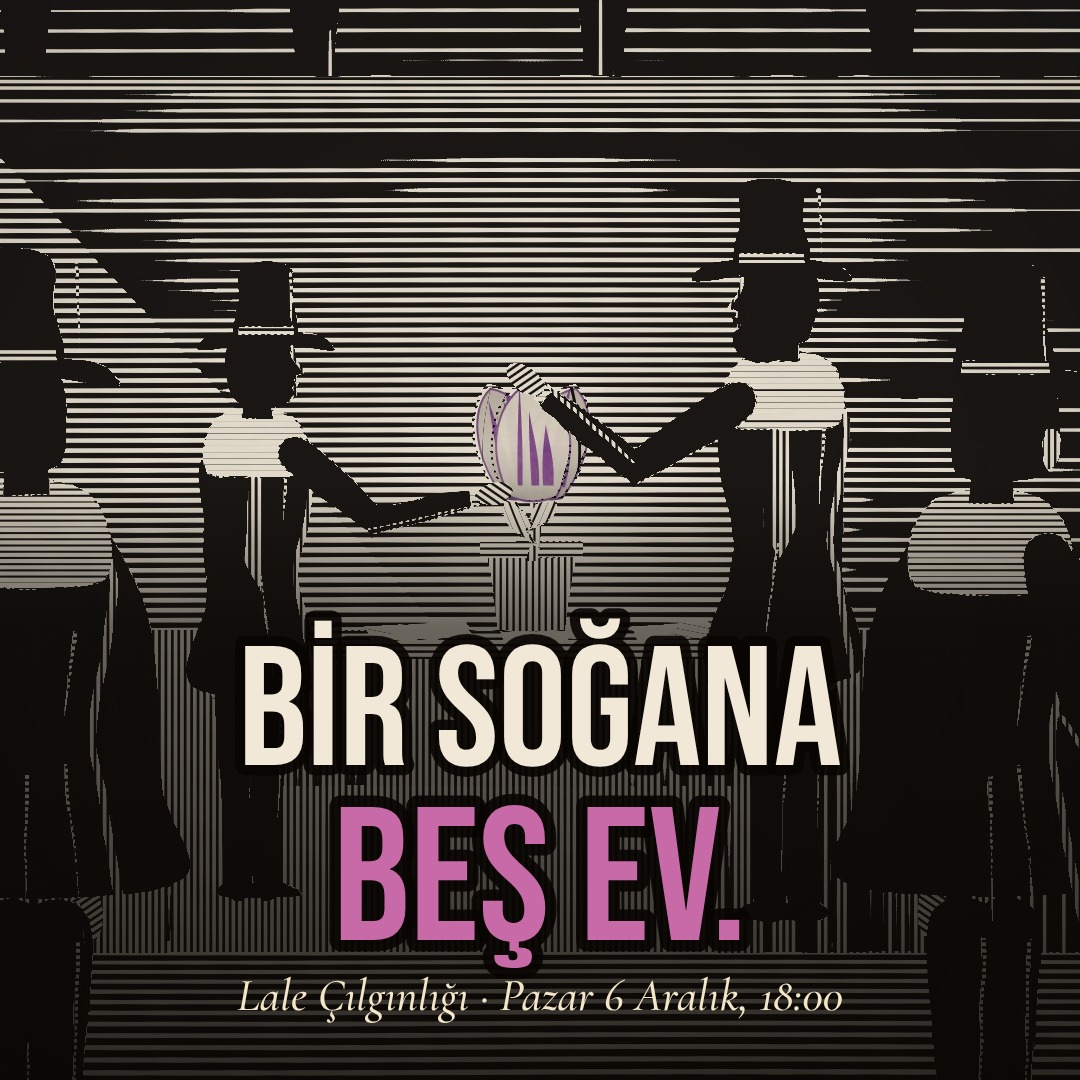
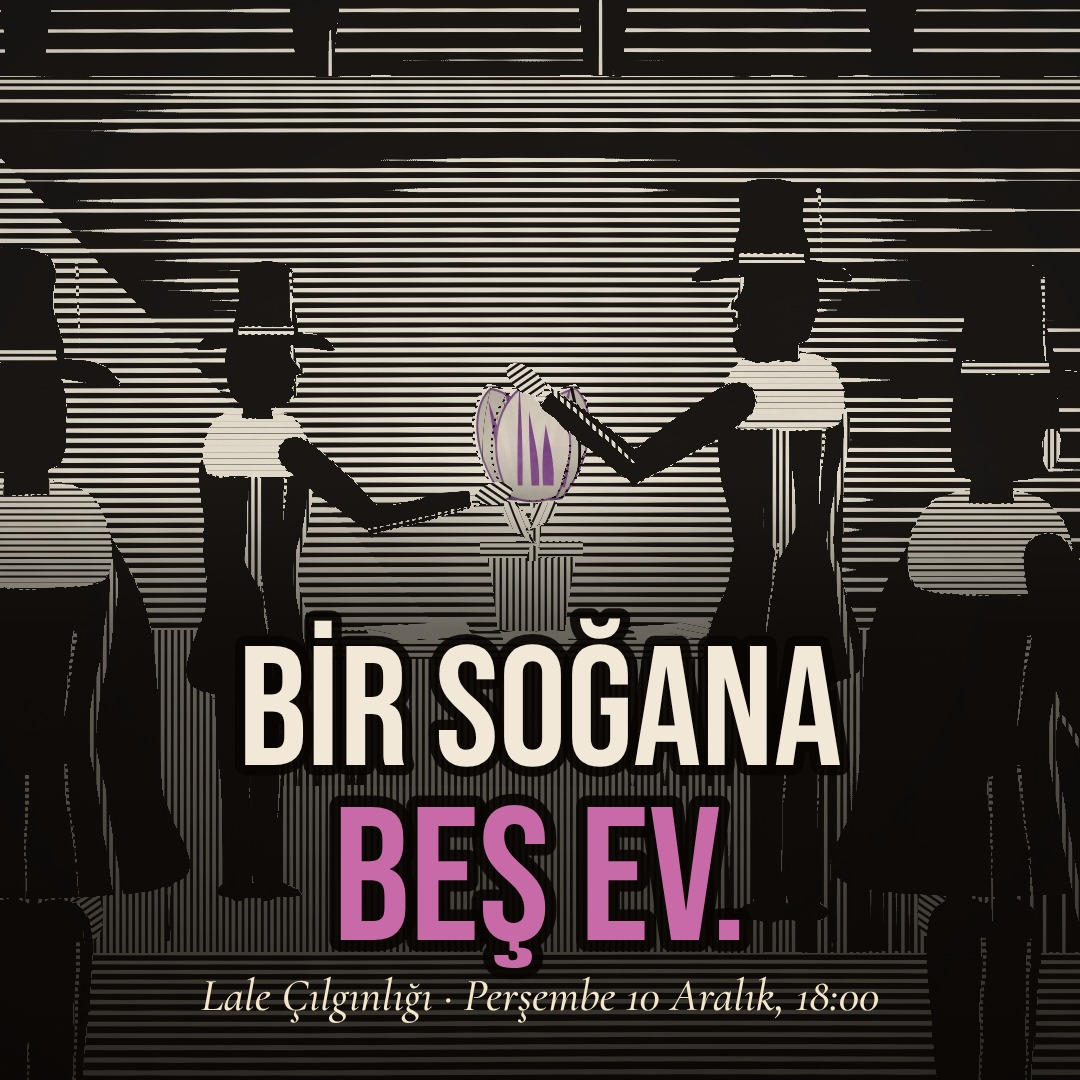
Takvim: Frankenstein 6 Aralık, Lale 10 Aralık; Frankenstein topluluk gönderisi (4 Aralık) ve Lale gönderisi 8 Aralık'a
Claude-Session: https://claude.ai/code/session_01DiDBP9tCEbaX5zgkpG6y57

Changed region(s): [[0.1833, 0.9167, 0.825, 0.9472]]

diff --git a/topluluk/gorsel.js b/topluluk/gorsel.js
@@ -6,7 +6,8 @@ const G = [
   { ad: 'narkissos', cx: 760, satir: [['O BENİM.', '#E0643A', 210]], alt: 'Narkissos ve Eko · şimdi kanalda', konum: 'alt' },
   { ad: 'dorian', cx: 1060, satir: [['SEN DEĞİL,', '#F2E8D8', 150], ['TABLO YAŞLANSAYDI?', '#D9A441', 150]], alt: "Dorian Gray · Cumartesi 28 Kasım, 18:00", konum: 'alt' },
   { ad: 'gilgamis', cx: 900, satir: [['HER ŞEYİNİ KAYBETTİ.', '#FBEBD0', 128], ['NEDEN ÖVÜNDÜ?', '#E8622E', 150]], alt: 'Gılgamış · Çarşamba 2 Aralık, 18:00', konum: 'alt' },
-  { ad: 'lale', cx: 960, satir: [['BİR SOĞANA', '#F2E8D8', 170], ['BEŞ EV.', '#C86AA8', 190]], alt: 'Lale Çılgınlığı · Pazar 6 Aralık, 18:00', konum: 'alt' },
+  { ad: 'lale', cx: 960, satir: [['BİR SOĞANA', '#F2E8D8', 170], ['BEŞ EV.', '#C86AA8', 190]], alt: 'Lale Çılgınlığı · Perşembe 10 Aralık, 18:00', konum: 'alt' },
+  { ad: 'frankenstein', cx: 900, satir: [['YÜZÜNÜ GÖREMEDİ.', '#F2E8D8', 150], ['SESİNE İNANDI.', '#E8B23A', 170]], alt: 'Frankenstein · Pazar 6 Aralık, 18:00', konum: 'ust' },
 ];
 (async () => {
   const srv = await serve(), port = srv.address().port, br = await chromium.launch();

diff --git a/shorts-sart/yayin.md b/shorts-sart/yayin.md
@@ -1,4 +1,5 @@
-# Yayın takvimi (26 Kasım – 6 Aralık 2026)
+# Yayın takvimi (26 Kasım – 10 Aralık 2026)
+> **28 Kasım:** 6 Aralık'ta Lale değil Frankenstein çıkıyor (kullanıcı, 27 Kasım: şerit denemesi); Lale 10 Aralık'a kaydı. Tablo buna göre düzeltildi.
 Shorts her gün **20:00**, uzun videolar **18:00**. Shorts uzun videodan iki saat sonra çıkar (ayrı akış; uzun videonun ölçümünü bozmaz). Her Shorts'un **ertesi gün 16:00** civarı (20. saat) "izlemeye devam eden" oranı okunur.
 
 | Gün | Saat | Ne | Açılış yapısı (sınanan) | Ölçüm |
@@ -14,7 +15,8 @@ Shorts her gün **20:00**, uzun videolar **18:00**. Shorts uzun videodan iki saa
 | Çar 2 Ara | 18:00 | **Uzun video: Gılgamış** | | Cum 4, 18:00 (48. saat) |
 | Per 3 Ara | 20:00 | Shorts: **Sisifos II** "Ölümü zincire vuran adam" | **sonuçla açılış** (önce sonuç, sonra nasıl) | Cum 4, 16:00 |
 | Cum 4 Ara | 20:00 | Shorts: **Gılgamış** "Altı gün yedi gece uyuma" | şart ilk cümlede, dikey için çizilmiş (kırpma değil) | Cmt 5, 16:00 |
-| Paz 6 Ara | 18:00 | **Uzun video: Lale Çılgınlığı** | | |
+| Paz 6 Ara | 18:00 | **Uzun video: Frankenstein** | | Sal 8, 18:00 (48. saat) |
+| Per 10 Ara | 18:00 | **Uzun video: Lale Çılgınlığı** | | Cmt 12, 18:00 (48. saat) |
 
 **1 ve 3 Aralık (25 Kasım kararı):** açık bırakılmadı, iki ayrı formülle dolduruldu (şart ailesi tutmazsa hazır alternatif; tutarsa yan yana karşılaştırma). 4 Aralık'ta üç formülden yedi ölçüm olur; asıl Shorts üretim planı kazananın üstüne o zaman kurulur. Hazır adaylar (filmlerin kaydında ses var): Gılgamış "Ölüm sularına eli değen ölürdü"; Sisifos "Bunlar nasıl takılıyor? Bir gösterir misin?" (Ölüm'ü zincirleyen hile); Narkissos "Ancak ben ölünce bana sahip olursun" (sonuçla açılış).
 **Karar kuralı:** 20. saatte izlemeye devam eden ≥ %60 → yapı korunur ve çoğaltılır; %45–60 → yapı tutulur, ilk kare değiştirilir; < %45 (soru Shorts'unun %43,2'si) → o yapı bırakılır. Birkaç puanlık fark yok sayılır.
@@ -35,7 +37,7 @@ Altyazı videoya yakılı; SRT dosyaları yine de hazır (`*_sart.tr.srt`). **SR
 | **28 Kasım, 20:00** | **Prometheus/Pandora:** "Zeus'tan armağan alma." | Dorian 18:00'de; Shorts ondan iki saat sonra, ayrı akış |
 | **29 Kasım, 20:00** | **İkaros:** "Ortadan uç." | |
 | **30 Kasım, 20:00** | **Eko:** "Yalnız son sözleri tekrarlar." | Dorian 48. saati 18:00'de alınır |
-| **4 Aralık, 20:00** | **Gılgamış şart Shorts'u** | Gılgamış uzun videosu 2 Aralık; 48. saati 4 Aralık 18:00. Lale (6 Aralık) öncesi |
+| **4 Aralık, 20:00** | **Gılgamış şart Shorts'u** | Gılgamış uzun videosu 2 Aralık; 48. saati 4 Aralık 18:00. Frankenstein (6 Aralık) öncesi |
 
 Neden iki Narkissos Shorts'u: aynı mit, aynı çizim hattı, aynı sahneler; değişen yalnız ilk cümle ("Bugün kendine kaç kez baktın?" sorusu ↔ "Kendini tanımazsa" şartı). Serinin cevaplaması gereken soru ("kalıp mı tuttu, kanal mı?") en temiz böyle ölçülür. Tahminler `analiz/tahminler.md` (S2, S3).
 

diff --git a/topluluk/gonderiler.md b/topluluk/gonderiler.md
@@ -1,4 +1,4 @@
-# Topluluk gönderileri (görselli), 25 Kasım – 6 Aralık 2026
+# Topluluk gönderileri (görselli), 25 Kasım – 10 Aralık 2026
 
 Görseller 1080×1080, filmlerin kendi karelerinden; kapaklardan farklı sahneler (kapak tekrar edilmez, merak başka yerden açılır). Üretim: `node topluluk/gorsel.js` (kaynak kareler `topluluk/kaynak/`).
 Studio → **Oluştur → Gönderi oluştur** (ya da mobilde **+ → Gönderi**) → metni yapıştır → **Görsel** ekle → **Yayınla** (ya da **Planla**).
@@ -9,7 +9,10 @@ Her gönderi bir soruyla biter: yorum topluluk etkileşimidir. Gönderide link y
 | **Hemen (25 Kasım)** | `narkissos.jpg` | Narkissos ve Eko (yayında) |
 | **Perşembe 26 Kasım, 19:00** | `dorian.jpg` | Dorian Gray, Cumartesi 28 Kasım 18:00 |
 | **Pazartesi 30 Kasım, 19:00** | `gilgamis.jpg` | Gılgamış, Çarşamba 2 Aralık 18:00 |
-| **Cuma 4 Aralık, 19:00** | `lale.jpg` | Lale Çılgınlığı, Pazar 6 Aralık 18:00 |
+| **Cuma 4 Aralık, 19:00** | `frankenstein.jpg` | Frankenstein, Pazar 6 Aralık 18:00 |
+| **Salı 8 Aralık, 19:00** | `lale.jpg` | Lale Çılgınlığı, Perşembe 10 Aralık 18:00 |
+
+> **28 Kasım:** 6 Aralık'ta Frankenstein çıkıyor, Lale 10 Aralık'a kaydı (kullanıcı, 27 Kasım). Eski Lale gönderisi ("Pazar 18:00") 4 Aralık'ta **paylaşılmaz**; yerine Frankenstein gönderisi, Lale'ninki 8 Aralık'a.
 
 Saat 19:00: uzun videoların yayın saati 18:00, Shorts 20:00; gönderi ikisinin arasına düşsün diye.
 
@@ -41,11 +44,24 @@ Dört bin yıllık bir destanda bir kral, ölüme karşı aradığını buldu, e
 Her şeyini kaybetmiş bir adam neden övünür? Tahminini yaz.
 ```
 
-## 4) Lale Çılgınlığı (Cuma 4 Aralık, 19:00)
+## 4) Frankenstein (Cuma 4 Aralık, 19:00)
+```
+Bir yaratık aylarca bir duvar yarığından yoksul bir aileyi izledi. Geceleri gizlice odunlarını kesip kapılarının önüne yığdı; aile ona "iyi ruh" dedi.
+Sonunda kapıyı çalmaya karar verdi. Ama ihtiyarın evde yalnız kaldığı günü bekledi, çünkü ihtiyar kördü: yüzünü görmeden önce sesini duysun istedi.
+
+Pazar 18:00'de: Mary Shelley'nin Frankenstein'ı. Canavar doğulur mu, olunur mu?
+
+Sen olsan o kapıyı çalar mıydın?
+```
+- Görsel: kör ihtiyar ile yaratık ateşin başında (film 6:08, E02 "Ben körüm, yüzünü göremem"). Kapaklardan farklı sahne (A: uzanan el, B: yazan Mary).
+- Kaynak (senaryo): D07–D09 (odun, "iyi ruh"), D13 (sesimi duysunlar), E01–E02 (yalnız kaldığı gün, kör ihtiyar). Kapı açıldığında ne olduğu (E05) gönderide saklı.
+- Soru kalıbı bir önceki gönderiden (Gılgamış: "Tahminini yaz") farklı.
+
+## 5) Lale Çılgınlığı (Salı 8 Aralık, 19:00)
 ```
 Şubat 1637, Hollanda. Bir meyhanede mezat: tek bir lale soğanına 5.200 gulden veriliyor. Haarlem'de beş küçük ev parası.
 
-Pazar 18:00'de: Lale Çılgınlığı. Ve doksan yıl sonra aynı çiçek İstanbul'da açacak.
+Perşembe 18:00'de: Lale Çılgınlığı. Ve doksan yıl sonra aynı çiçek İstanbul'da açacak.
 
 Herkes alıyorsa, sen de alır mısın?
 ```

diff --git a/kanal/DURUM.md b/kanal/DURUM.md
@@ -7,7 +7,7 @@ Her oturumun başında `.claude/hooks/dal_durumu.sh` çalışır ve `main`'e bir
 - Video teslim edilince dalı `main`'e birleştirilir; satırda dal sütunu `main` olur.
 - Biten ya da yayına giren iş "Arşiv"e iner; tablo kısa kalır.
 
-Son güncelleme: 26 Kasım 2026.
+Son güncelleme: 28 Kasım 2026.
 
 ## Sürmekte olan
 | İş | Klasör | Dal | Aşama | Sıradaki adım |
@@ -19,7 +19,7 @@ Son güncelleme: 26 Kasım 2026.
 | Çernobil'in çayı | `cernobil/` | main | teslim (Fable düzeltmeleriyle) | yayın 14 Aralık 18:00 (öneri); 48. saat 16 Aralık |
 | Stanford Hapishane Deneyi | `stanford/` | main (26 Kasım birleşti) | teslim: YouTube 360 MB, telefon 93 MB | yayın 18 Aralık 18:00 (öneri); `stanford/yayin.md` |
 | Şart Shorts'ları | `shorts-sart/` | main (26 Kasım birleşti) | teslim; günlük takvim 26 Kasım – 4 Aralık, 20:00 | takvim ve ölçüm: `shorts-sart/yayin.md` |
-| Topluluk gönderileri | `topluluk/` | main (26 Kasım birleşti) | hazır | 26 Kasım Dorian, 30 Kasım Gılgamış; **4 Aralık Lale gönderisi paylaşılmaz** (Lale 10 Aralık'a kaydı; yerine Frankenstein gönderisi yazılacak, Lale'ninki 8 Aralık'a); `topluluk/gonderiler.md` |
+| Topluluk gönderileri | `topluluk/` | main (26 Kasım birleşti) | hazır | 26 Kasım Dorian, 30 Kasım Gılgamış, 4 Aralık Frankenstein (28 Kasım yazıldı, `frankenstein.jpg`), 8 Aralık Lale (tarih düzeltildi); Çernobil ve Stanford gönderileri yok; `topluluk/gonderiler.md` |
 | Kanal kimliği (logo, avatar, kapak) | `kanal/logo/` | main | bitti (`KIMLIK.md`); 1440p yükleme deneyi yapılmayacak (kullanıcı kararı) | Studio'ya yükleme kullanıcıda |
 | Mektuplar: kanal tanıtımı (kurye, yağlıboya canlanan resim) + 3B manken aracı | `kurye/`, `araclar/manken/`, `araclar/tablo/` | `claude/3d-puppet-drawing-shader-4ca4y8` | **sürüyor** (v7, eleştiri turları) | bitince `main`'e birleşir; `CLAUDE.md`'de çakışma var, birleştirmede elle çözülür |
 | Shorts S5: Shorts'a özel seslendirme + yeni ilk kare (Gılgamış) | `shorts-sart/` | yeni sohbette (27 Kasım, kullanıcı başlatacak) | sırada | ölçüt izlemeye devam eden ≥ %55, tutmazsa Shorts'a ara; kredi onayı üretimden önce; yayın Gılgamış'tan 2–3 gün sonra |
